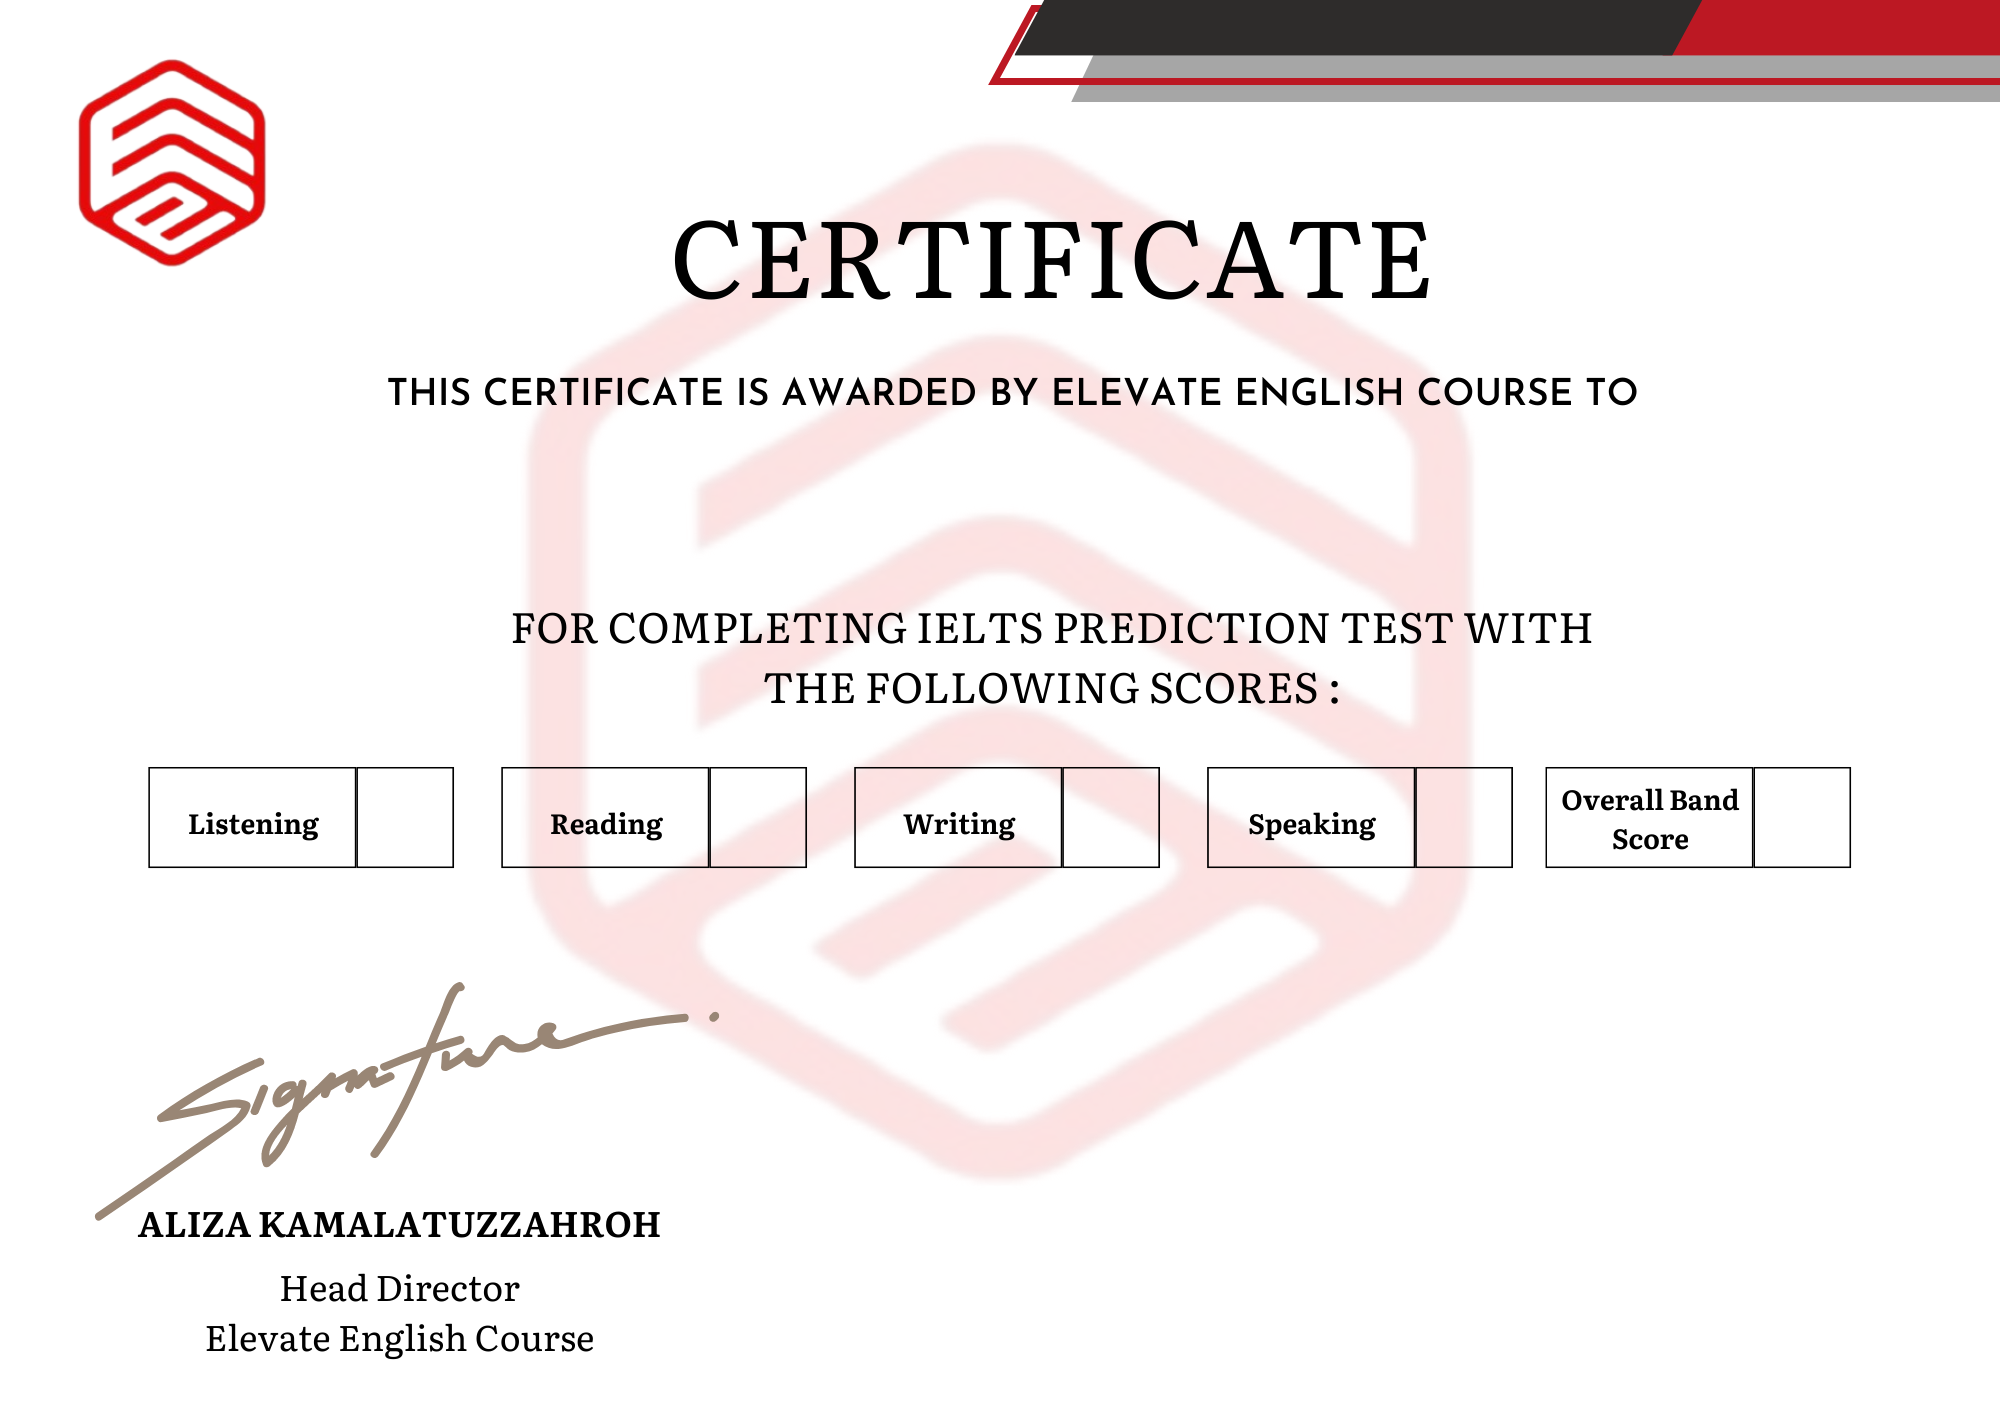
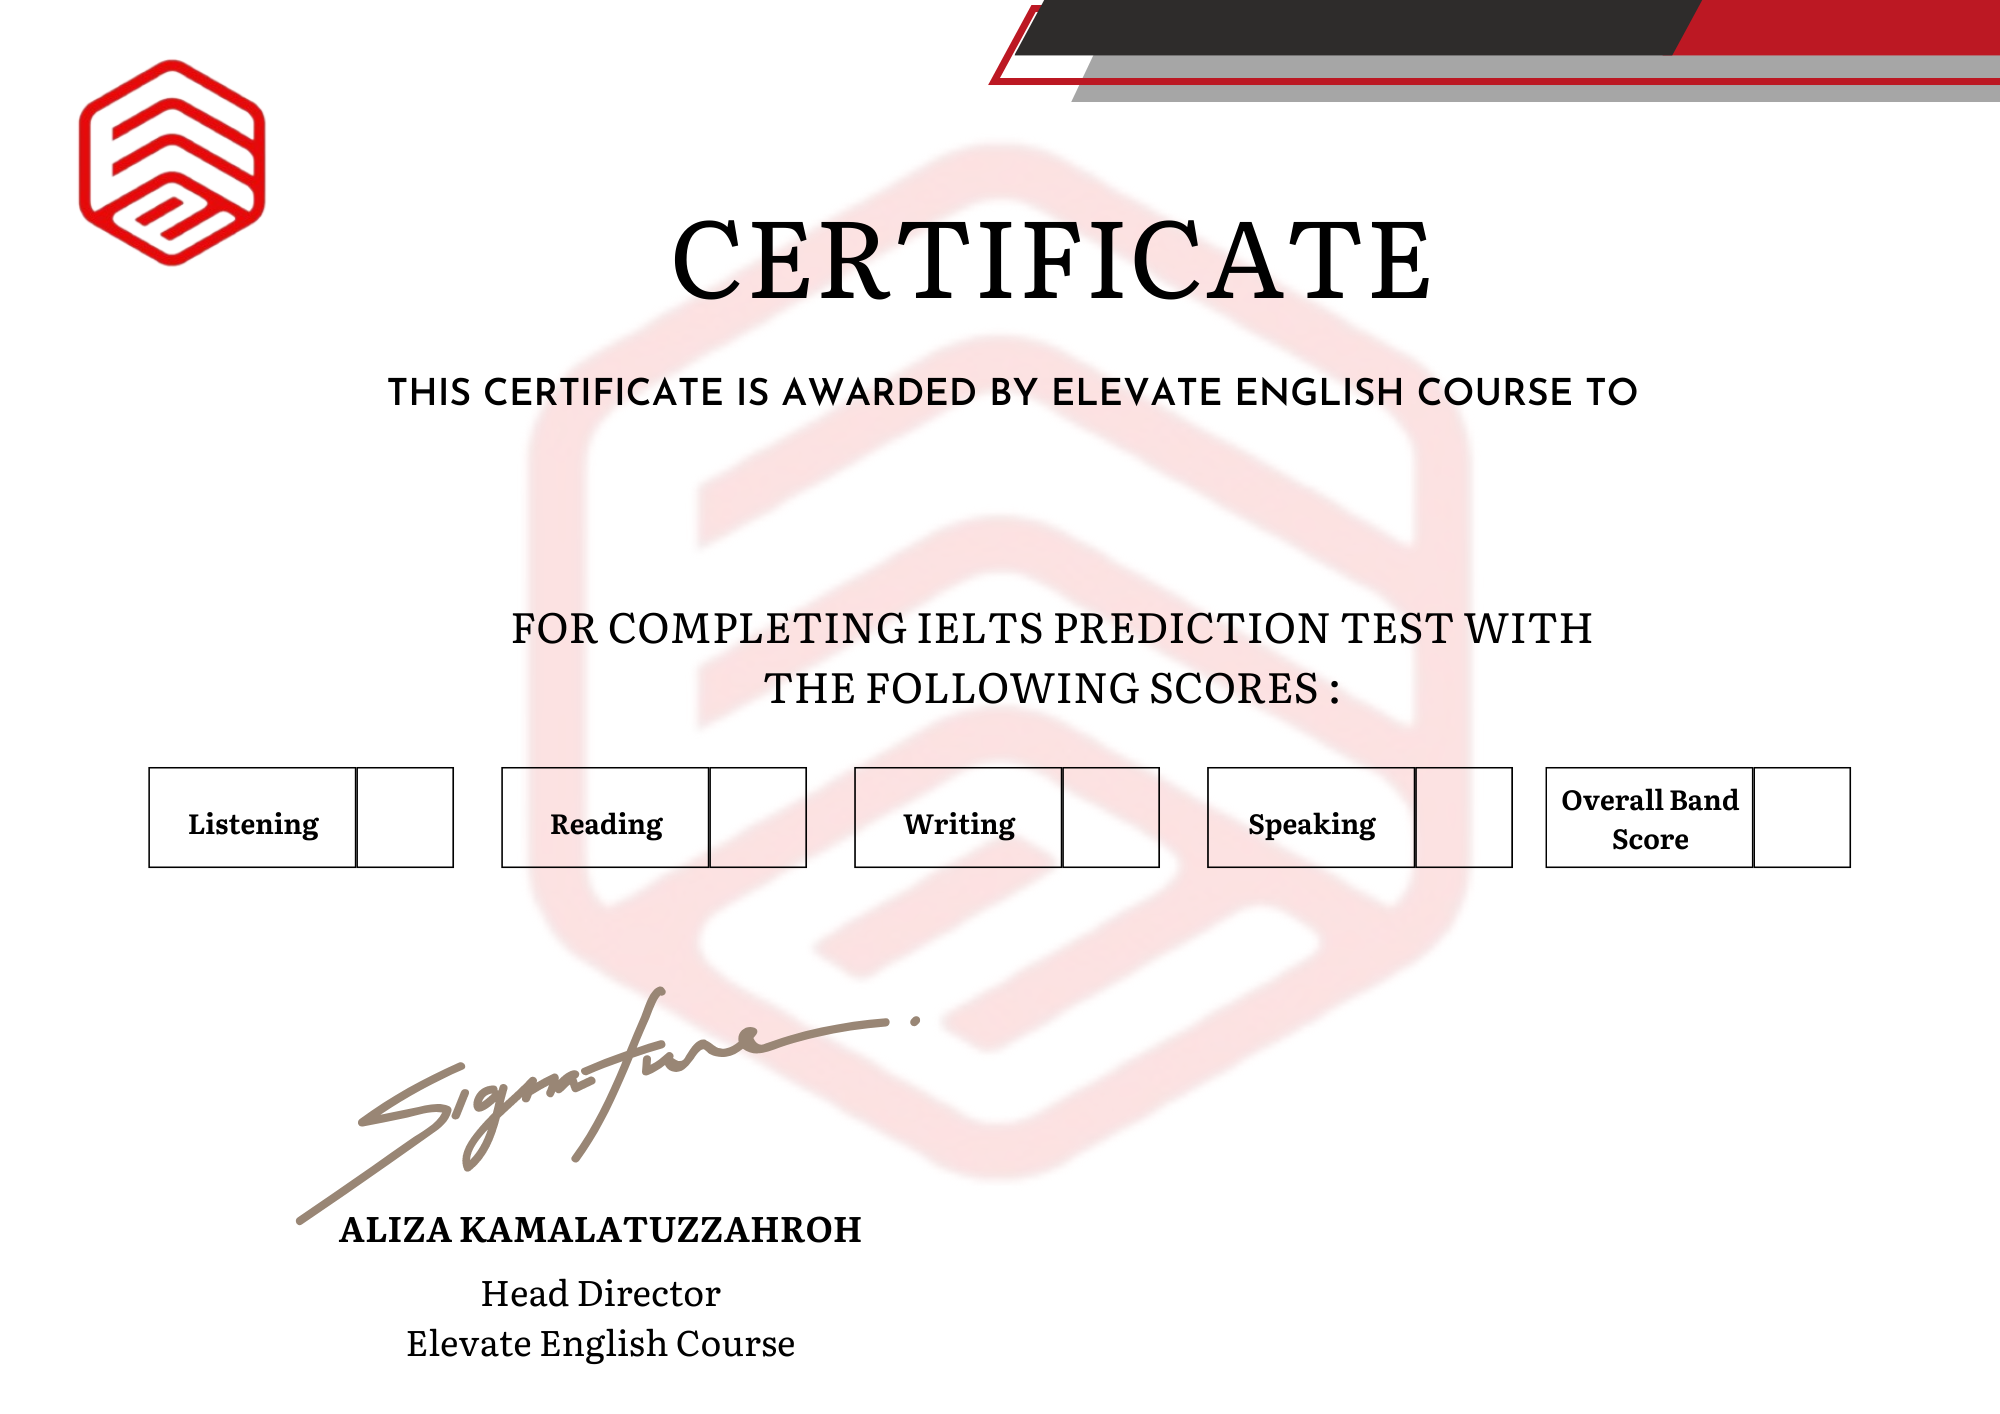
modif sertifikat

Changed region(s): [[0.031, 0.6846, 0.434, 0.9646]]

diff --git a/app/Views/pages/pdfIelts.php b/app/Views/pages/pdfIelts.php
@@ -13,7 +13,7 @@
   .barcode {
     position: absolute;
     bottom: 30px;
-    right: 75px;
+    right: 245px;
     text-align: center;
   }
 
@@ -93,8 +93,8 @@
     font-family: 'Montserrat-SemiBold';
     font-size: 20px;
     position: absolute;
-    bottom: 205px;
-    left: 135px;
+    bottom: 215px;
+    left: 245px;
     /* right: 0px; */
     text-align: center;
   }
